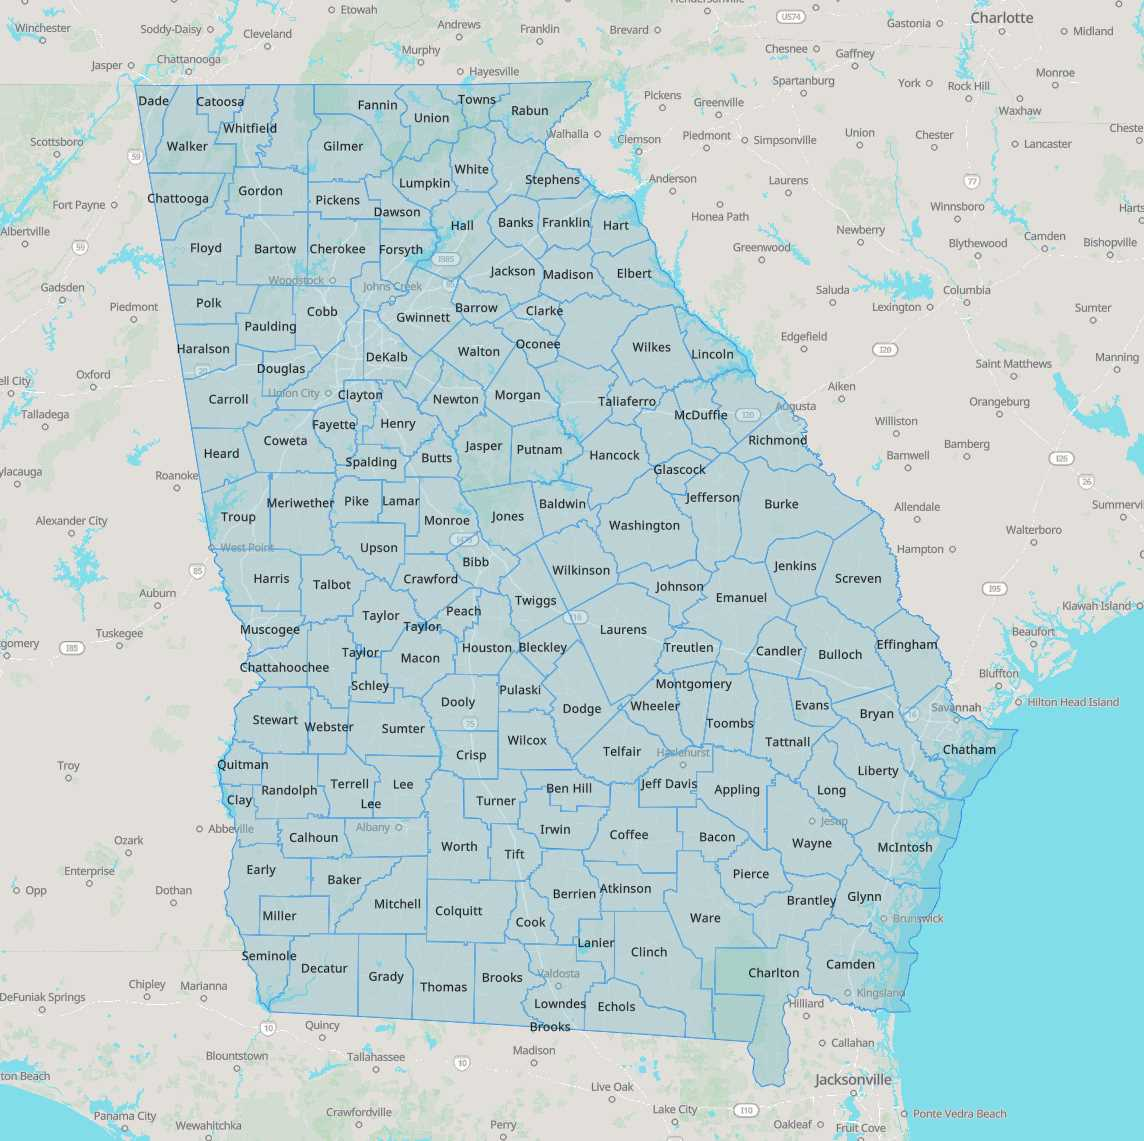
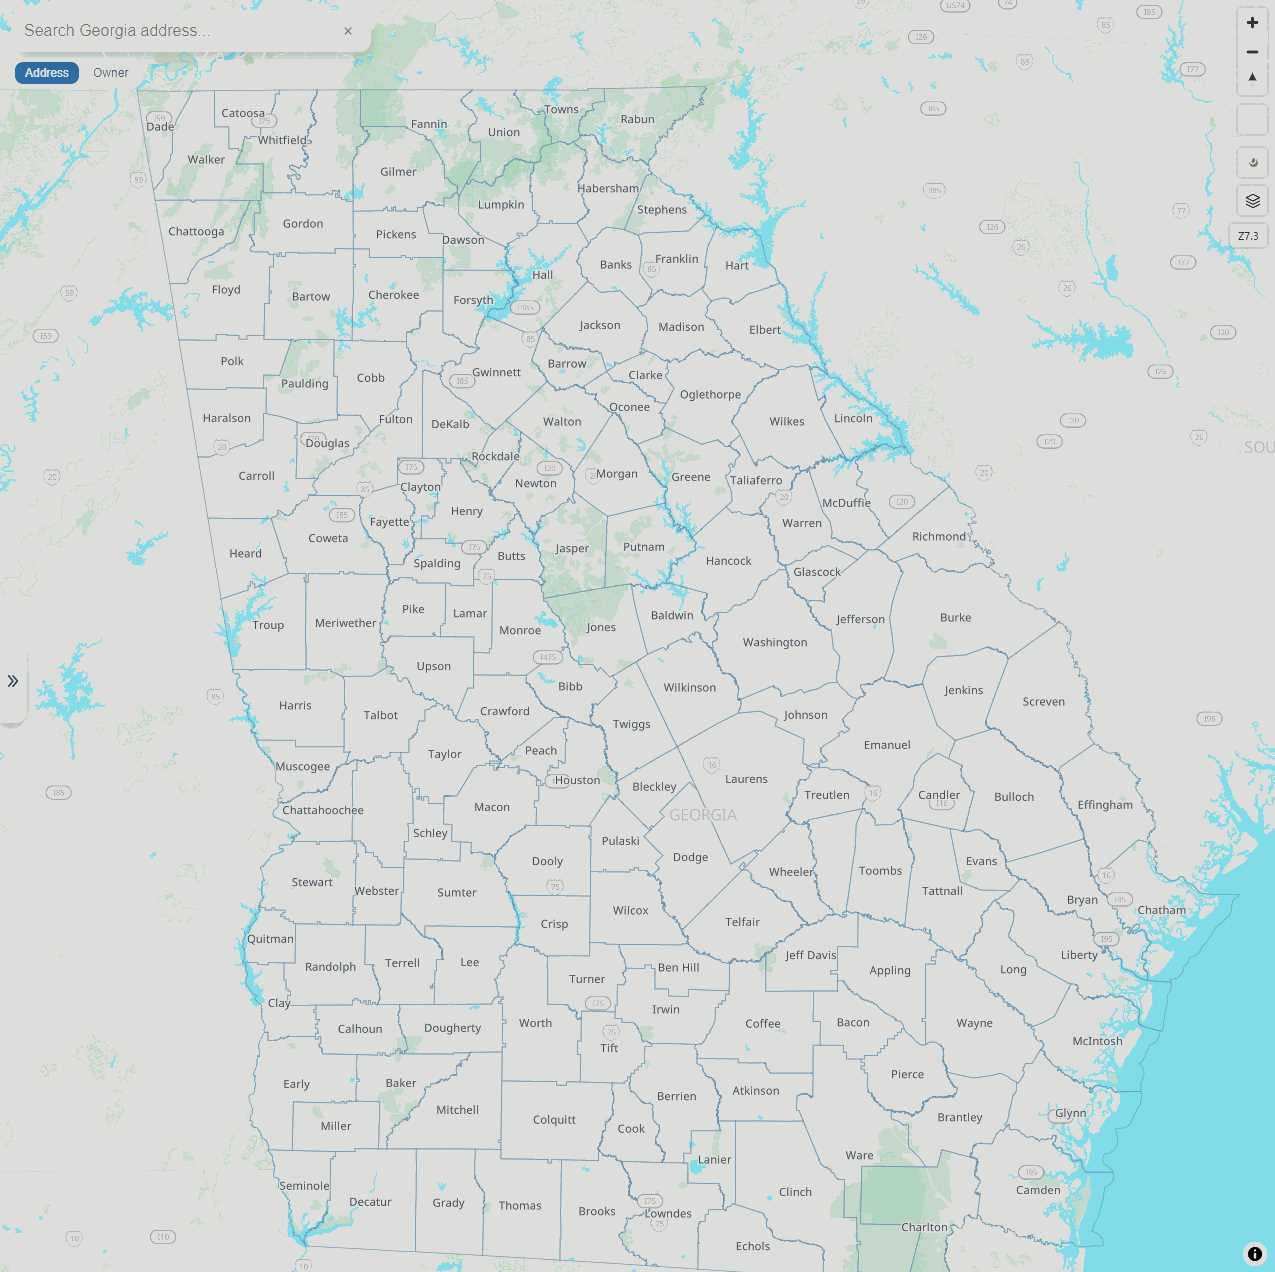
Update Readme with new screenshots and changes

diff --git a/db/README.md b/db/README.md
@@ -76,8 +76,8 @@ erDiagram
         varchar(255) classification
         varchar(255) tax_district
         geometry geometry "MultiPolygon 3857"
-        float8 search_lat
-        float8 search_lng
+        float4 search_lat
+        float4 search_lng
         timestamp last_sync
         boolean processed
         text error_message
@@ -164,8 +164,8 @@ Stores Georgia county boundaries and associated metadata. This is the foundation
 | `boundary_simplified` | `geometry(MultiPolygon, 4326)` | Simplified boundary for low-zoom rendering |
 | `centroid` | `geometry(Point, 4326)` | Geographic center point |
 | `bbox` | `geometry(Polygon, 4326)` | Bounding box envelope |
-| `boundary_geojson` | `jsonb` | **Precomputed** full boundary as GeoJSON Feature |
-| `boundary_simplified_geojson` | `jsonb` | **Precomputed** simplified boundary as GeoJSON Feature |
+| `boundary_geojson` | `jsonb` | Legacy precomputed GeoJSON blob (not used by current county tile serving path) |
+| `boundary_simplified_geojson` | `jsonb` | Legacy precomputed simplified GeoJSON blob |
 | `population` | `bigint` | 2010 census population |
 | `region` | `varchar(50)` | Georgia regional commission name |
 | `acres` | `numeric` | Total land area in acres |
@@ -199,12 +199,12 @@ The main table storing individual property parcels. Contains ~4.77 million recor
 | `site_number` | `text` | Street number (extracted for display) |
 | `owner_name` | `text` | Property owner name |
 | `owner_address` | `text` | Owner mailing address |
-| `acres` | `numeric` | Parcel size in acres |
+| `acres` | `double precision` | Parcel size in acres |
 | `classification` | `varchar(255)` | Land use classification code |
 | `tax_district` | `varchar(255)` | Tax jurisdiction district |
 | `geometry` | `geometry(MultiPolygon, 3857)` | Parcel boundary in Web Mercator |
-| `search_lat` | `double precision` | Precomputed parcel search latitude (WGS84) |
-| `search_lng` | `double precision` | Precomputed parcel search longitude (WGS84) |
+| `search_lat` | `real` | Precomputed parcel search latitude (WGS84) |
+| `search_lng` | `real` | Precomputed parcel search longitude (WGS84) |
 | `last_sync` | `timestamp` | Last successful data sync |
 | `processed` | `boolean` | NULL=success, FALSE=needs retry |
 | `error_message` | `text` | Error details if processing failed |
@@ -216,12 +216,10 @@ The main table storing individual property parcels. Contains ~4.77 million recor
 - `idx_parcels_county_parcel` - Composite index for lookups (btree on `county_id`, `parcel_id`)
 - `idx_parcels_geometry` - Spatial index (GiST on `geometry`)
 - `parcels_county_id_objectid_key` - Unique constraint per county (btree on `county_id`, `objectid`)
-- `idx_parcels_site_address_prefix_active` - Partial prefix search index for active address autocomplete
-- `idx_parcels_site_address_trgm_active` - Partial trigram search index for active address fuzzy search
 - `idx_parcels_owner_name_prefix_active` - Partial prefix search index for active owner autocomplete
 - `idx_parcels_owner_name_trgm_active` - Partial trigram search index for active owner fuzzy search
 
-> **Note on SRID**: Parcels use SRID 3857 (Web Mercator) because vector tiles are generated in this projection. County boundaries use SRID 4326 (WGS84) for compatibility with GeoJSON.
+> **Note on SRID**: Parcels use SRID 3857 (Web Mercator) because vector tiles are generated in this projection. County boundaries use SRID 4326 (WGS84) and are transformed during MVT generation.
 
 ---
 
@@ -264,7 +262,7 @@ Pre-generated Mapbox Vector Tiles (MVT) stored as gzipped binary data.
 | `z` | `smallint` | Zoom level (13-19 for parcels) |
 | `x` | `integer` | Tile X coordinate |
 | `y` | `integer` | Tile Y coordinate |
-| `layer` | `varchar(50)` | Layer name (default: 'parcels') |
+| `layer` | `varchar(50)` | Layer name (e.g., `parcels`, `counties`, `tax_heatmap_2024`) |
 | `data` | `bytea` | Gzipped MVT binary data |
 | `created_at` | `timestamp` | Tile generation time |
 
@@ -277,6 +275,9 @@ Pre-generated Mapbox Vector Tiles (MVT) stored as gzipped binary data.
 **Check Constraints:**
 - `z` must be between 0 and 30
 - `x` and `y` must be non-negative
+
+> **Note:** Tax heatmap grid tiles are precomputed and stored as `tax_heatmap_<year>` layers.  
+> Parcel-level tax tiles are precomputed as `tax_parcels_<county_id>_<year>` when generated, and the API can fall back to runtime generation if a tile is missing.
 
 ---
 
@@ -325,7 +326,7 @@ Tracks import progress for resumable batch operations.
 |--------|------|-------------|
 | `id` | `integer` | Primary key |
 | `county_name` | `varchar(50)` | County being imported |
-| `import_type` | `varchar(20)` | Type: 'parcel' or 'tax' |
+| `import_type` | `varchar(20)` | Import workflow key (e.g. `parcel`, `tax`, `parcel_search`, `owner_groups`, `qpublic_enrich`) |
 | `last_processed_id` | `bigint` | Last successfully processed record ID |
 | `status` | `varchar(20)` | RUNNING, COMPLETED, or FAILED |
 | `start_time` | `timestamp` | Import start time |
@@ -375,52 +376,52 @@ CREATE INDEX idx_parcels_geometry ON parcels USING gist(geometry);
 
 ## Precomputed Columns
 
-### The Problem
+### Active precomputation paths
 
-Converting PostGIS geometries to GeoJSON is expensive:
+The current serving path emphasizes tile and lookup precomputation:
 
-```sql
--- This is slow when called for 159 counties per request
-SELECT ST_AsGeoJSON(boundary) FROM counties;
-```
+- County/parcel/tax layers are pre-generated as MVT and stored gzipped in `tiles`.
+- `parcels.search_lat/search_lng` are trigger-maintained for fast map/search responses.
+- `parcel_search` is a materialized projection for address autocomplete and display ranking.
+- `owner_groups` + `owner_group_members` provide a fast materialized path for reverse-owner lookup.
 
-### The Solution
+### Legacy county GeoJSON columns
 
-Store pre-serialized GeoJSON as JSONB, computed once at import time:
-
-```sql
--- Precomputed once, served instantly
-SELECT boundary_geojson FROM counties;
-```
-
-The precomputed GeoJSON includes all properties needed for the frontend:
-
-```json
-{
-  "type": "Feature",
-  "geometry": { "type": "MultiPolygon", "coordinates": [...] },
-  "properties": {
-    "id": 1,
-    "name": "Fulton",
-    "state": "GA",
-    "population": 920581,
-    "region": "Atlanta Regional Commission",
-    "acres": 344320,
-    "square_miles": 538.0
-  }
-}
-```
+`counties.boundary_geojson` and `counties.boundary_simplified_geojson` may still exist in older databases, but current map rendering serves county vector tiles (`/api/tiles/counties/...`) rather than GeoJSON payloads.
 
 ### Search Precomputation
 
 Parcel search uses precomputed `search_lat`/`search_lng` columns and indexed text matching so autocomplete does not run expensive geometry functions per keystroke.
 
 - `search_lat` / `search_lng` are maintained by trigger when `parcels.geometry` changes.
-- Prefix and trigram indexes are applied as **partial indexes** for active records (`processed IS NULL`, `objectid IS NOT NULL`, non-null coords/text).
+- Address autocomplete uses the `parcel_search` projection table with prefix + trigram indexes on normalized address fields.
+- Owner autocomplete uses partial prefix + trigram indexes on `parcels.owner_name` for active records (`processed IS NULL`, `objectid IS NOT NULL`, non-null coords/text).
 - The API endpoint `/api/search/parcels` supports `mode=address|owner` with prefix-first + trigram fallback.
 
----
+### Reverse Owner Matching
 
+Reverse owner lookup (`/api/owners/properties`) is implemented as a hybrid pipeline:
+
+1. **Materialized lookup path**  
+   Uses `owner_group_members` + `owner_groups` (built by `--build-owner-groups`) for fast precomputed group retrieval.
+
+2. **Dynamic scoring fallback**  
+   If a materialized group is unavailable/incomplete, candidates are scored at request time using normalized owner-name/address rules.
+
+Confidence scoring combines:
+
+- Strict/relaxed owner-address key matches
+- House/street/city/ZIP combinations
+- Owner-name exact/subset/overlap similarity
+- PO Box ambiguity penalties
+- Minor county/proximity tie-breakers
+
+The API returns:
+
+- `match_confidence` (`0..100`)
+- `match_band` (`high` >= 85, `medium` >= 55, `low` < 55)
+
+---
 ## Vector Tile Generation
 
 ### Overview
@@ -464,6 +465,18 @@ FROM (
 ) AS tile;
 ```
 
+### Tax Heatmap Tile Strategy
+
+Tax visualization uses two tile paths:
+
+1. **Precomputed grid tiles** (`tax_heatmap_<year>`)  
+   Stored in the `tiles` table and served directly for low zoom levels (county overview).
+
+2. **Parcel tax tiles** (`tax_parcels_<county_id>_<year>`)  
+   Precomputed and stored in `tiles` for high zoom levels, with runtime generation as fallback when a specific tile is missing.
+
+This split avoids rendering parcel geometry at low zoom while preserving parcel precision at high zoom.
+
 
 ## Performance Metrics
 
@@ -471,25 +484,7 @@ FROM (
 
 | Query Type | Cold | Cached | Notes |
 |------------|------|--------|-------|
-| All counties (simplified GeoJSON) | 15-20ms | N/A | Served directly from JSONB |
-| All counties (full GeoJSON) | 120ms | 2ms | Cached in memory after first request |
-| Single tile lookup | 5-10ms | <1ms | LRU cache on hit |
+| County tile lookup | 5-10ms | <1ms | `tiles` table read on miss, in-memory county tile cache on hit |
+| Single tile lookup | 5-10ms | <1ms | Parcel tile LRU cache on hit |
 | Parcel by ID | <1ms | N/A | Primary key lookup |
 | Parcels in bbox | 10-50ms | N/A | Depends on result count |
-
-### Why Precomputation Matters
-
-```
-Without precomputation (runtime ST_AsGeoJSON):
-┌────────────────────────────────────────────────┐
-│ Request → Query 159 counties → ST_AsGeoJSON() │
-│           for each row → Build response       │
-│ Time: 150-300ms                               │
-└────────────────────────────────────────────────┘
-
-With precomputation (JSONB column):
-┌────────────────────────────────────────────────┐
-│ Request → SELECT boundary_geojson → Response  │
-│ Time: 15-20ms                                 │
-└────────────────────────────────────────────────┘
-```

diff --git a/README.md b/README.md
@@ -16,21 +16,38 @@
 
 <img src="docs/screenshots/state-view.jpg" alt="Georgia Parcel Map" width="600">
 
+
+<p>
+A statewide Georgia parcel map with fast tile serving, search, parcel detail popup, owner reverse-search, and tax heatmap.
+Built with Go, PostgreSQL/PostGIS, and MapLibre GL JS.
+</p>
 </div>
-
-A full-stack geospatial web application for visualizing Georgia county boundaries and parcel data. Built with Go, PostgreSQL/PostGIS, and MapLibre GL JS.
-
 
 ## Screenshots
 
 <div align="center">
-  <h3>County & Parcel View</h3>
-  <img src="docs/screenshots/county-parcels.jpg" alt="County Parcels" width="600">
-  <p><em>Individual parcels visible at zoom 13+ with property boundaries</em></p>
-
-  <h3>Property Details</h3>
-  <img src="docs/screenshots/parcel-details.jpg" alt="Parcel Popup" width="600">
-  <p><em>Instant property information popup on click</em></p>
+  <table>
+    <tr>
+      <td align="center">
+        <img src="docs/screenshots/county-parcels.jpg" alt="County & Parcel View" width="320"><br>
+        <em>County + parcel boundaries</em>
+      </td>
+      <td align="center">
+        <img src="docs/screenshots/parcel-details.jpg" alt="Property Details Popup" width="320"><br>
+        <em>Parcel details popup</em>
+      </td>
+    </tr>
+    <tr>
+      <td align="center">
+        <img src="docs/screenshots/owner-properties.jpg" alt="Owner Properties Results" width="320"><br>
+        <em>Owner reverse search results</em>
+      </td>
+      <td align="center">
+        <img src="docs/screenshots/tax-heatmap.jpg" alt="Tax Heatmap View" width="320"><br>
+        <em>Tax heatmap (grid + parcel)</em>
+      </td>
+    </tr>
+  </table>
 </div>
 
 ## How It Works
@@ -115,10 +132,10 @@ The application uses PostgreSQL with the PostGIS extension for spatial data. The
 
 ### Key Optimizations
 
-- **Precomputed GeoJSON**: County boundaries are pre-serialized to JSONB via database triggers, eliminating expensive `ST_AsGeoJSON()` calls per request
-- **GiST Spatial Indexes**: All geometry columns are indexed for fast spatial queries
-- **Pre-generated Tiles**: Vector tiles are generated once and stored gzipped, avoiding real-time geometry processing
-- **Simplified Geometries**: County boundaries have both full and simplified versions (`ST_Simplify`) for zoom-appropriate rendering
+- **County Vector Tiles**: County boundaries are served as pre-generated MVT tiles (`/api/tiles/counties/:z/:x/:y`) instead of runtime GeoJSON serialization
+- **GiST Spatial Indexes**: Geometry columns are indexed for fast spatial filtering during tile generation and spatial queries
+- **Pre-generated Tiles**: Parcel/county/tax tiles are generated once and stored gzipped in PostgreSQL, avoiding per-request geometry processing
+- **In-memory Tile Caching**: Hot county/parcels/tax tiles are cached in memory to minimize database reads and decompression overhead
 
 ---
 
@@ -126,8 +143,8 @@ The application uses PostgreSQL with the PostGIS extension for spatial data. The
 
 | Metric | Value | Notes |
 |--------|-------|-------|
-| Simplified Counties | ~15-20ms | Precomputed JSONB served directly |
-| Full Counties (cached) | ~2ms | Served from memory after first request |
+| County Tiles (cached) | <1ms | Served from in-memory county tile cache |
+| County Tiles (cold) | ~5-10ms | Read gzipped MVT from PostgreSQL + decompress |
 | Vector Tile (cached) | <1ms | LRU cache hit |
 | Vector Tile (cold) | ~5-10ms | Database query + decompress |
 | Initial Page Load | ~35ms | Simplified boundaries + basemap |
@@ -159,6 +176,22 @@ Detailed parcel fields are now fetched on click from a live endpoint (`/api/parc
 | 18 | 1,275 B | 246 B |
 | 19 | 679 B | 182 B |
 
+### Property Tax Heatmap Architecture
+
+The property tax heatmap intentionally uses two render modes:
+
+1. **Grid Heatmap (zoom 6-12)**  
+   Precomputed yearly tiles (`layer = tax_heatmap_<year>`) store aggregated `avg_tax_amount` values per grid cell.
+
+2. **Parcel Heatmap (zoom 13-19)**  
+   Runtime vector tiles (`/api/tiles/tax-parcels/:z/:x/:y`) carry parcel geometry + per-year `tax_amount`.
+
+Why both layers exist:
+
+- A parcel-only heatmap is too heavy at county scale.
+- A grid-only heatmap loses parcel-level detail at high zoom.
+- The split keeps low-zoom performance fast while preserving high-zoom fidelity.
+
 ### Search Optimization
 
 The map includes a single search bar with mode toggle (`Address` / `Owner`) for fast parcel lookup:
@@ -172,7 +205,37 @@ Database-side search performance improvements:
 
 - `pg_trgm` extension for fuzzy matching
 - Precomputed `search_lat` / `search_lng` columns on `parcels` (trigger-maintained on geometry changes)
-- Partial prefix + trigram indexes aligned to active search filters (`processed IS NULL`, `objectid IS NOT NULL`, non-null coords/text)
+- Address search uses the dedicated `parcel_search` projection table with prefix + trigram indexes on normalized address fields
+- Owner search uses partial prefix + trigram indexes on `parcels.owner_name` aligned to active filters (`processed IS NULL`, `objectid IS NOT NULL`, non-null coords/text)
+
+### Reverse Owner Search
+
+The `Properties by Owner` workflow uses:
+
+- **Endpoint**: `/api/owners/properties?feature_id={county_id}_{objectid}` (preferred)  
+- **Fallback endpoint mode**: `/api/owners/properties?owner_name=...&owner_address=...`
+
+Runtime behavior is two-stage:
+
+1. **Materialized fast path**  
+   If the anchor parcel is present in `owner_group_members` and the group returns at least 2 parcels, results are served from precomputed owner groups.
+
+2. **Dynamic hybrid scoring fallback**  
+   If materialized data is missing/incomplete, the API runs statewide candidate selection and computes a `match_confidence` score per parcel.
+
+Current scoring signals include:
+
+- Owner address normalization matches (strict and relaxed)
+- House/street/city/ZIP combinations
+- Owner-name similarity (exact, subset, overlap)
+- PO Box penalties for ambiguity
+- Surname mismatch penalty when address evidence is weak
+- Small county/proximity tie-breakers
+
+Results are filtered by confidence threshold and returned with:
+
+- `match_confidence` (0-100)
+- `match_band` (`high` >= 85, `medium` >= 55, else `low`)
 
 ### Tile Cache Configuration
 
@@ -189,6 +252,15 @@ The application uses a **zoom-aware LRU cache** with ~200MB total memory budget.
 | 19 | 2 MB | 182 B | ~11,500 tiles |
 
 This design ensures that the most expensive tiles (low zoom with many parcels) stay cached longer, while high-zoom tiles with fewer parcels are evicted more aggressively since they're cheap to regenerate.
+
+### Additional Heatmap Caches
+
+The server also maintains dedicated in-memory caches for heatmap traffic:
+
+- **Tax Heatmap Grid Cache** (`tax_heatmap_<year>` responses): ~96MB
+- **Tax Parcel Tile Cache** (`/api/tiles/tax-parcels/...` responses): ~160MB
+
+These are separate from the base parcel tile LRU because grid and parcel-heatmap tiles have different payload sizes, access patterns, and keys (`year`, and for parcel heatmap also `county_id`).
 
 ---
 
@@ -218,6 +290,12 @@ go run main.go --generate-tiles --county "all"
 
 # Generate tiles with custom zoom range
 go run main.go --generate-tiles --county "Fulton" --min-zoom 13 --max-zoom 16
+
+# Generate tax heatmap grid tiles (tax_amount-based) for all supported years
+go run main.go --generate-tax-heatmap-tiles --county "Forsyth"
+
+# Generate tax heatmap grid tiles for a single tax year
+go run main.go --generate-tax-heatmap-tiles --county "Forsyth" --tax-year 2024
 
 # Import with verbose logging to file
 go run main.go --import-parcels --county "Fulton" --log
@@ -249,7 +327,7 @@ parcel_heatmap/
 ├── handlers/
 │   ├── county.go        # County boundary API endpoints
 │   ├── parcel.go        # Live parcel detail endpoint for popup hydration
-|   +-- search.go        # Parcel address/owner search endpoint
+│   ├── search.go        # Parcel address/owner search endpoint
 │   └── tiles.go         # Vector tile serving with caching
 │
 ├── importers/
